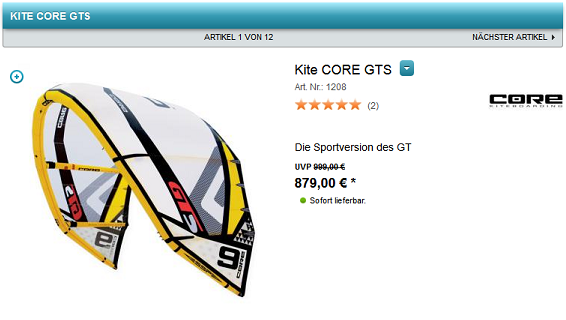
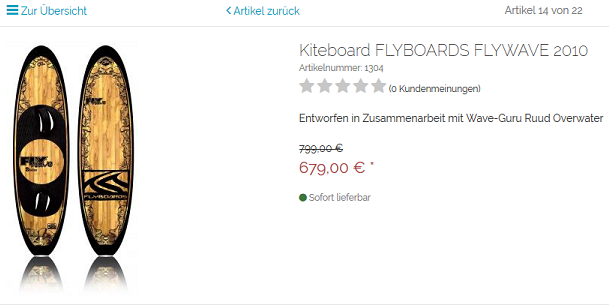
Frontend screenshots /enterprise-edition/rechte-und-rollen

diff --git a/enterprise-edition/rechte-und-rollen/rechte-und-rollen.rst b/enterprise-edition/rechte-und-rollen/rechte-und-rollen.rst
@@ -20,15 +20,15 @@ Für Artikel und Kategorien kann auch definiert werden, dass sie ausschließlich
 
 .. image:: ../../media/screenshots-de/oxbaev01.png
    :alt: Artikelübersicht (Rechte und Rollen)
-   :height: 244
-   :width: 300
+   :height: 360
+   :width: 650
 
 Auch in der Detailansicht fehlt die Schaltfläche :guilabel:`In den Warenkorb legen`, solange der Kunde nicht am Shop angemeldet ist und der berechtigten Benutzergruppe angehört.
 
 .. image:: ../../media/screenshots-de/oxbaev02.png
    :alt: Detailansicht Artikel (Rechte und Rollen)
-   :height: 170
-   :width: 300
+   :height: 307
+   :width: 609
 
 Zugriff auf Funktionen und Bereiche der Detailseite
 ^^^^^^^^^^^^^^^^^^^^^^^^^^^^^^^^^^^^^^^^^^^^^^^^^^^
@@ -43,8 +43,8 @@ Diese Rechte und Rollen werden unter :menuselection:`Benutzer verwalten --> Shop
 
 .. image:: ../../media/screenshots-de/oxbaev03.png
    :alt: Rechte für Detailansicht (Rechte und Rollen)
-   :height: 139
-   :width: 290
+   :height: 310
+   :width: 612
 
 Auf der Detailseite und auch in den Artikelübersichten werden, auf dem Screenshot als Beispiel zu sehen, keine Preise für nicht berechtigte Benutzer angezeigt.
 
